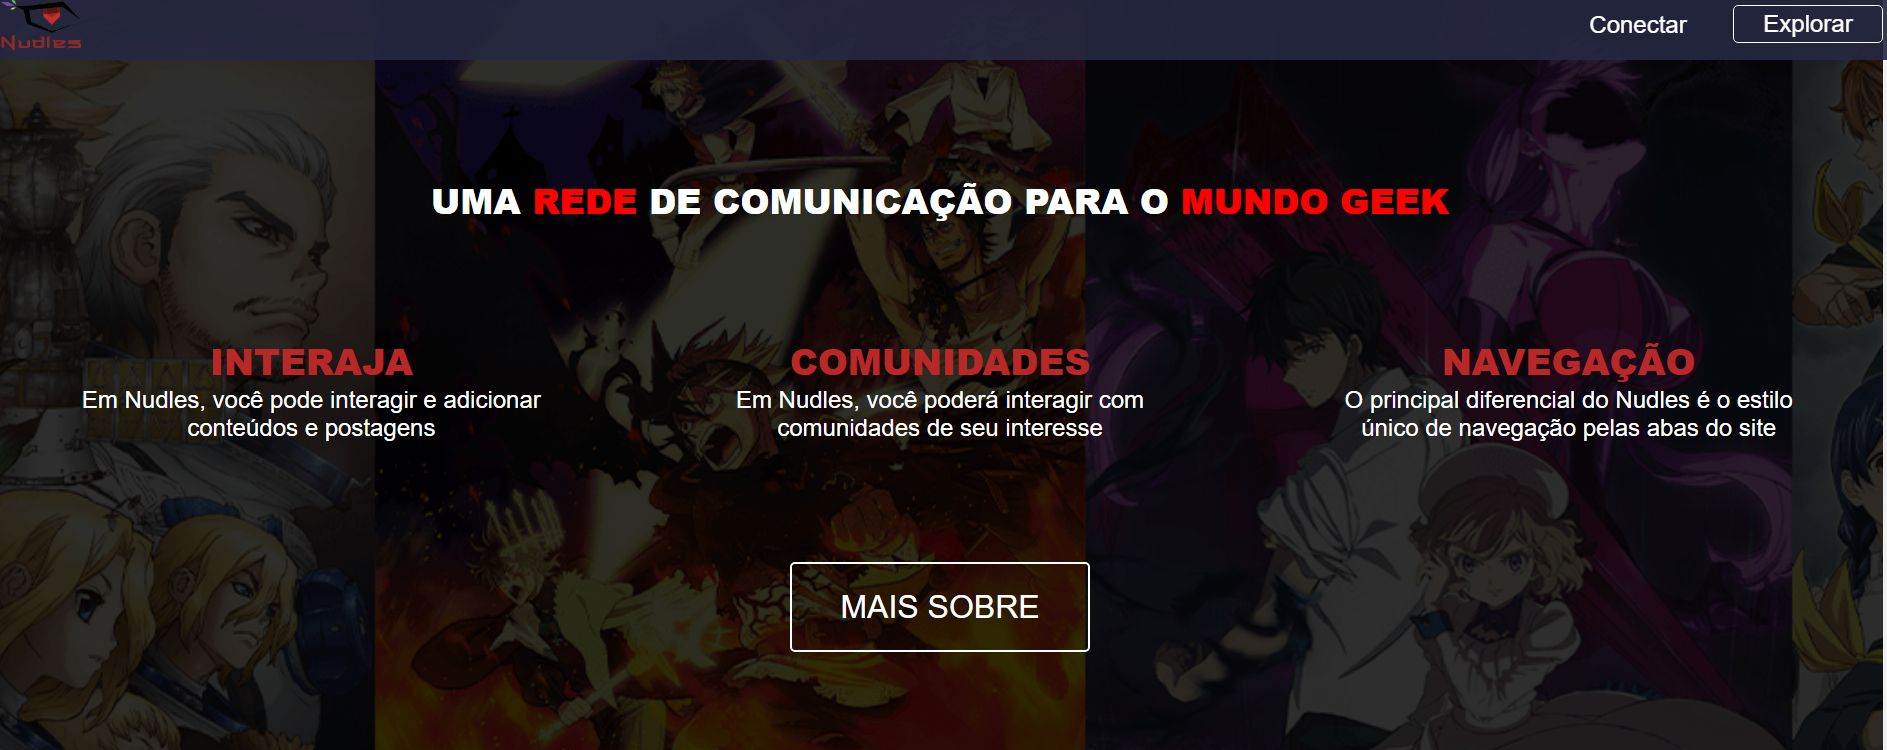
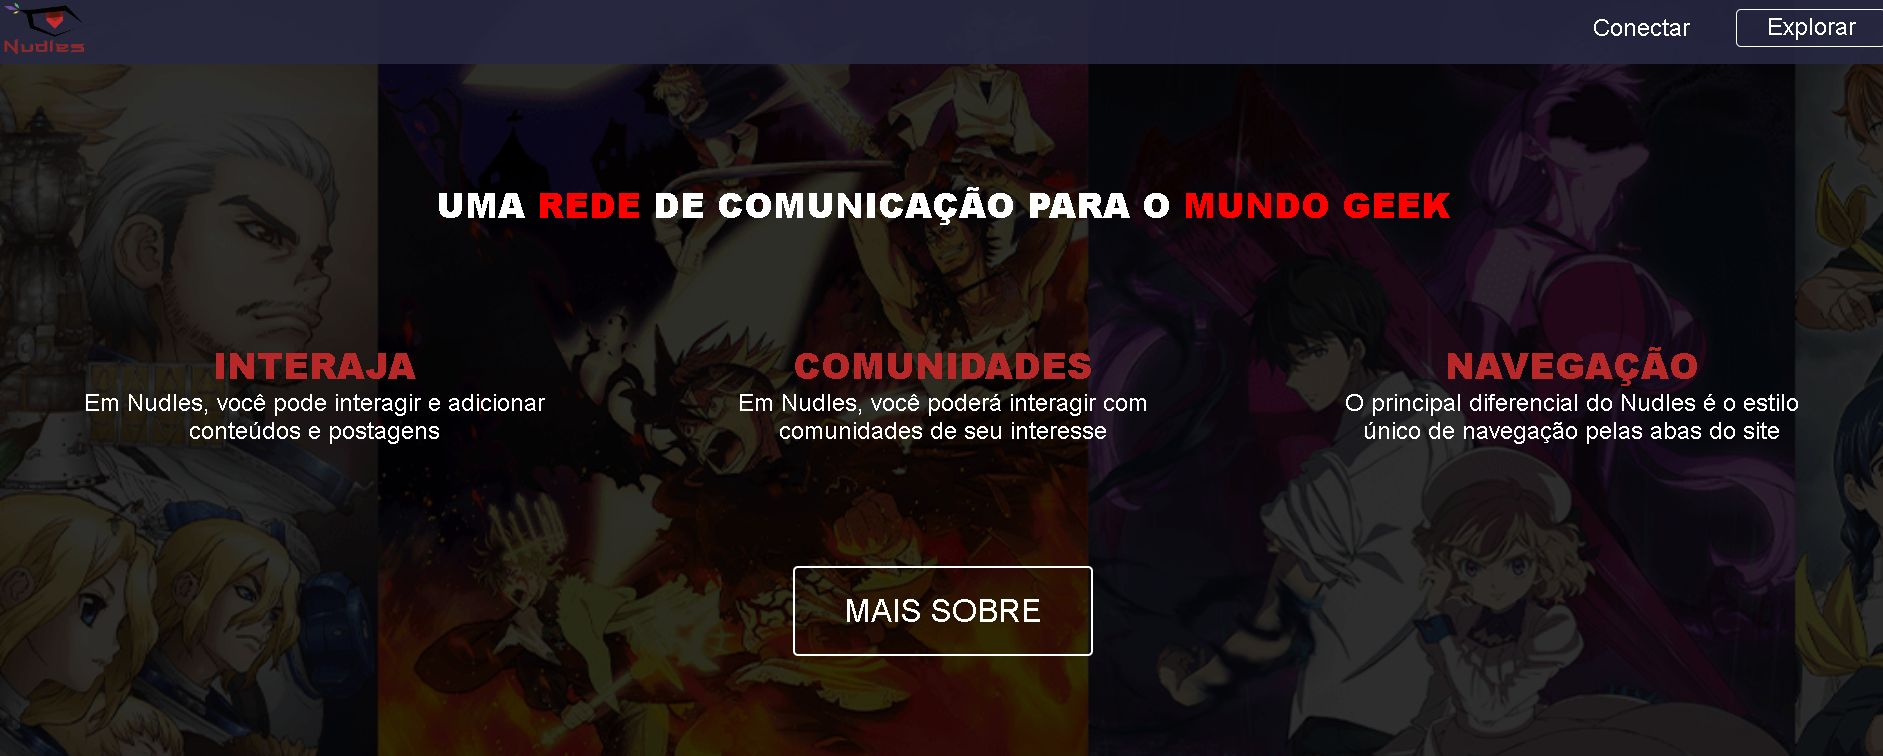
commit #2 detalhes

diff --git a/black.css b/black.css
@@ -17,20 +17,19 @@
     --04-color-: #5B5FA6;
     --05-color-: #ACB0F2;
     --06-color-: #1e20404a;
-    --07-color-: #0e0e1a;
+    --07-color-: #111132;
     --txt-color-: #fff;
 
-}
-  
-body{
-    
     background: rgb(14, 14, 26);
       background: -moz-linear-gradient(90deg, rgba(14, 14, 26, 1) 0%, rgba(30, 32, 64, 1) 50%, rgba(14, 14, 26, 1) 100%);
       background: -webkit-linear-gradient(90deg, rgba(14, 14, 26, 1) 0%, rgba(30, 32, 64, 1) 50%, rgba(14, 14, 26, 1) 100%);
       background: linear-gradient(90deg, rgba(14, 14, 26, 1) 0%, rgba(30, 32, 64, 1) 50%, rgba(14, 14, 26, 1) 100%);
       filter: progid:DXImageTransform.Microsoft.gradient(startColorstr="#0e0e1a", endColorstr="#0e0e1a", GradientType=1);
-    
+
+      transition: .5s;
+
 }
+
 .main{
 
     background-color: var(--01-color-);
@@ -55,6 +54,8 @@ header{
 
     background-image: url(mainblack.png);
 
+    transition: .5s;
+
 }
 header li{
 
@@ -73,7 +74,7 @@ header li{
 }
 svg{
 
-    color: var(--01-color-);
+    color: var(--07-color-);
 
     transition: .5s;
 
@@ -244,6 +245,13 @@ svg:hover{
     background-color: var(--06-color-);
 
     transition: .5s;
+
+}
+
+.bnt-projects a{
+
+    text-decoration: none;
+    color: var(--03-color-);
 
 }
 /* -------------- */

diff --git a/index.html b/index.html
@@ -71,11 +71,11 @@
 
         <div class="projects">
 
-            <img class="img-project-float-left" src="https://i.pinimg.com/736x/b8/e1/4f/b8e14f28886d5c3c6b9e5ecb3499a92b.jpg" alt="Imagem do projeto">
+            <img class="img-project-float-left" src="nudles.png" alt="Imagem do projeto Nudles">
 
             <h2 class="h2-prjects">Nudles</h2>
             <p class="p-projects-left">Projeto Escolar de um site sobre o Mundo Geek</p>
-            <button class="bnt-projects">Ver</button>
+            <button class="bnt-projects"><a href="https://nudles-issnzl7eu-xdef4lt.vercel.app/" target="_blank">Ver</a></button>
 
 
         </div>
@@ -86,7 +86,7 @@
 
             <h2 class="h2-prjects">Nome do projeto 02</h2>
             <p class="p-projects-right">Descrição curta do projeto 02</p>
-            <button class="bnt-projects">Ver</button>
+            <button class="bnt-projects"><a href="" target="_blank">Ver</a></button>
 
 
         </div>
